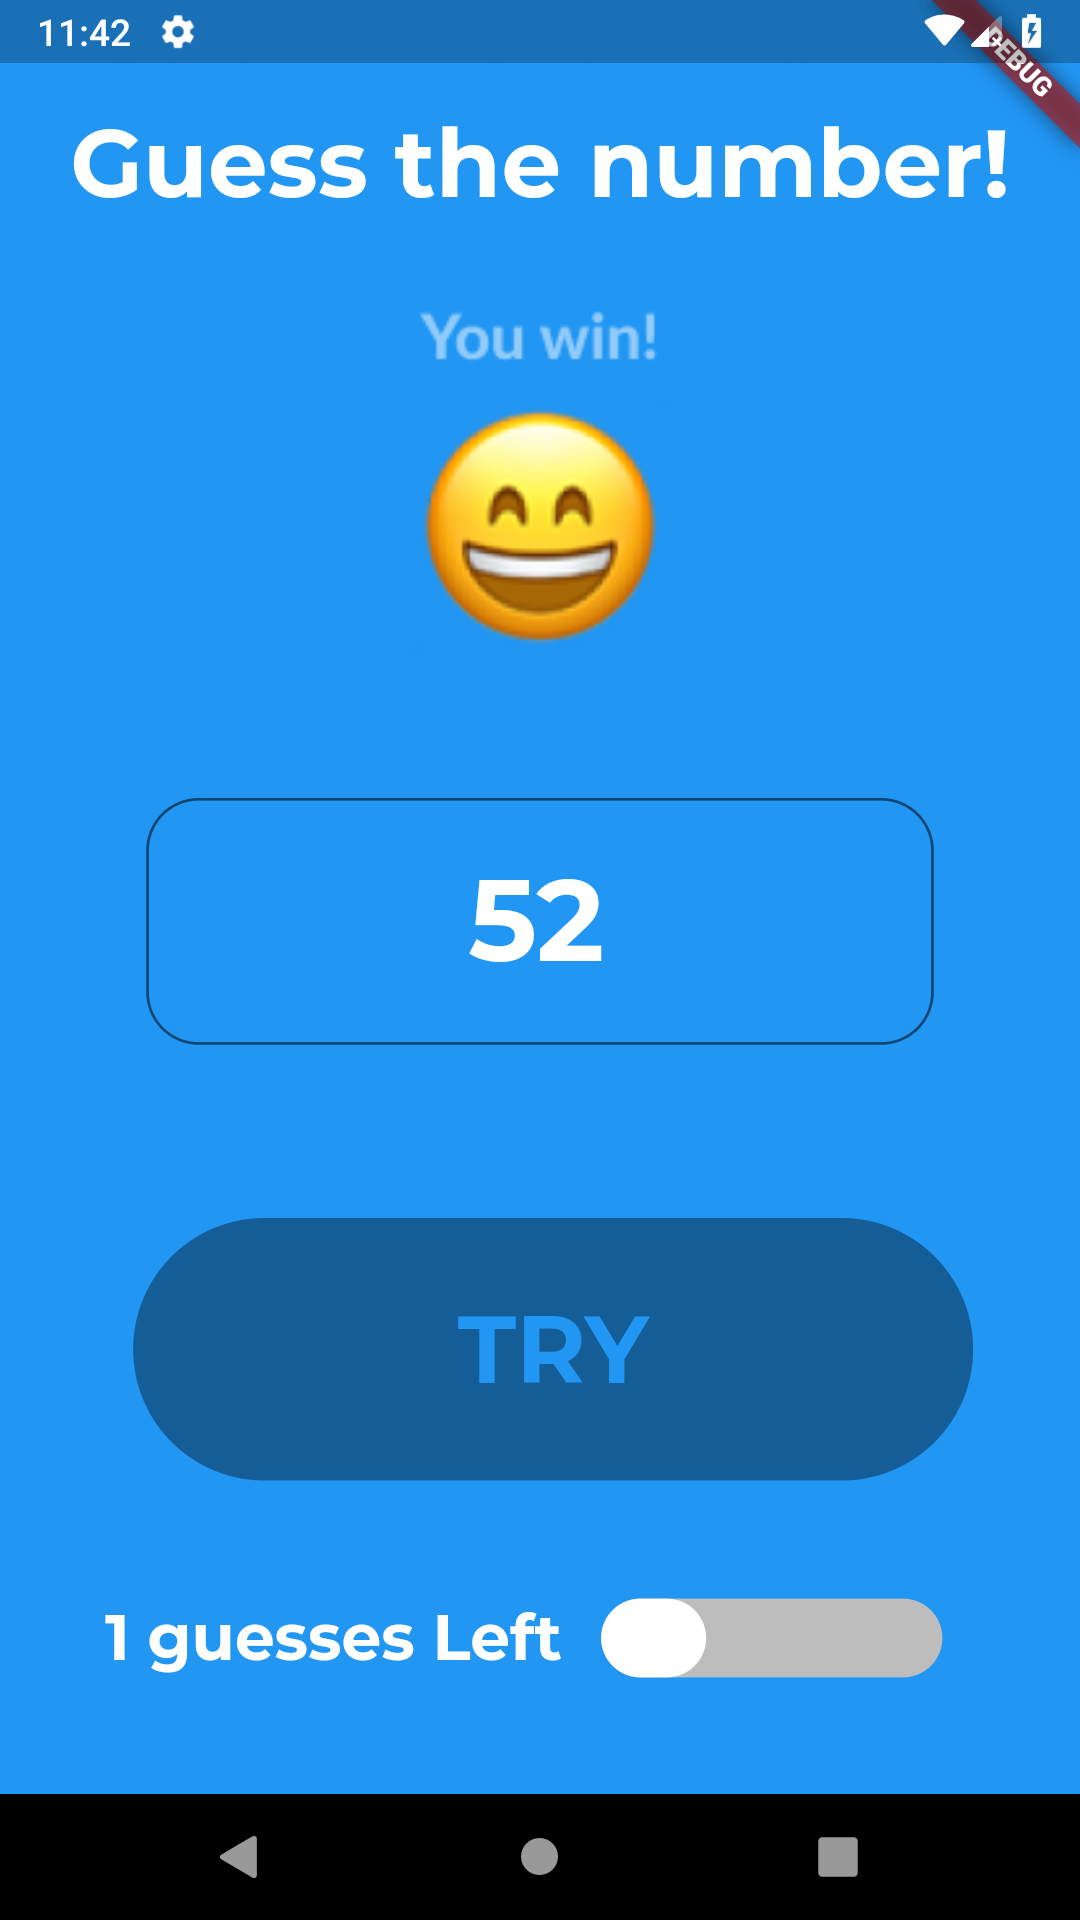
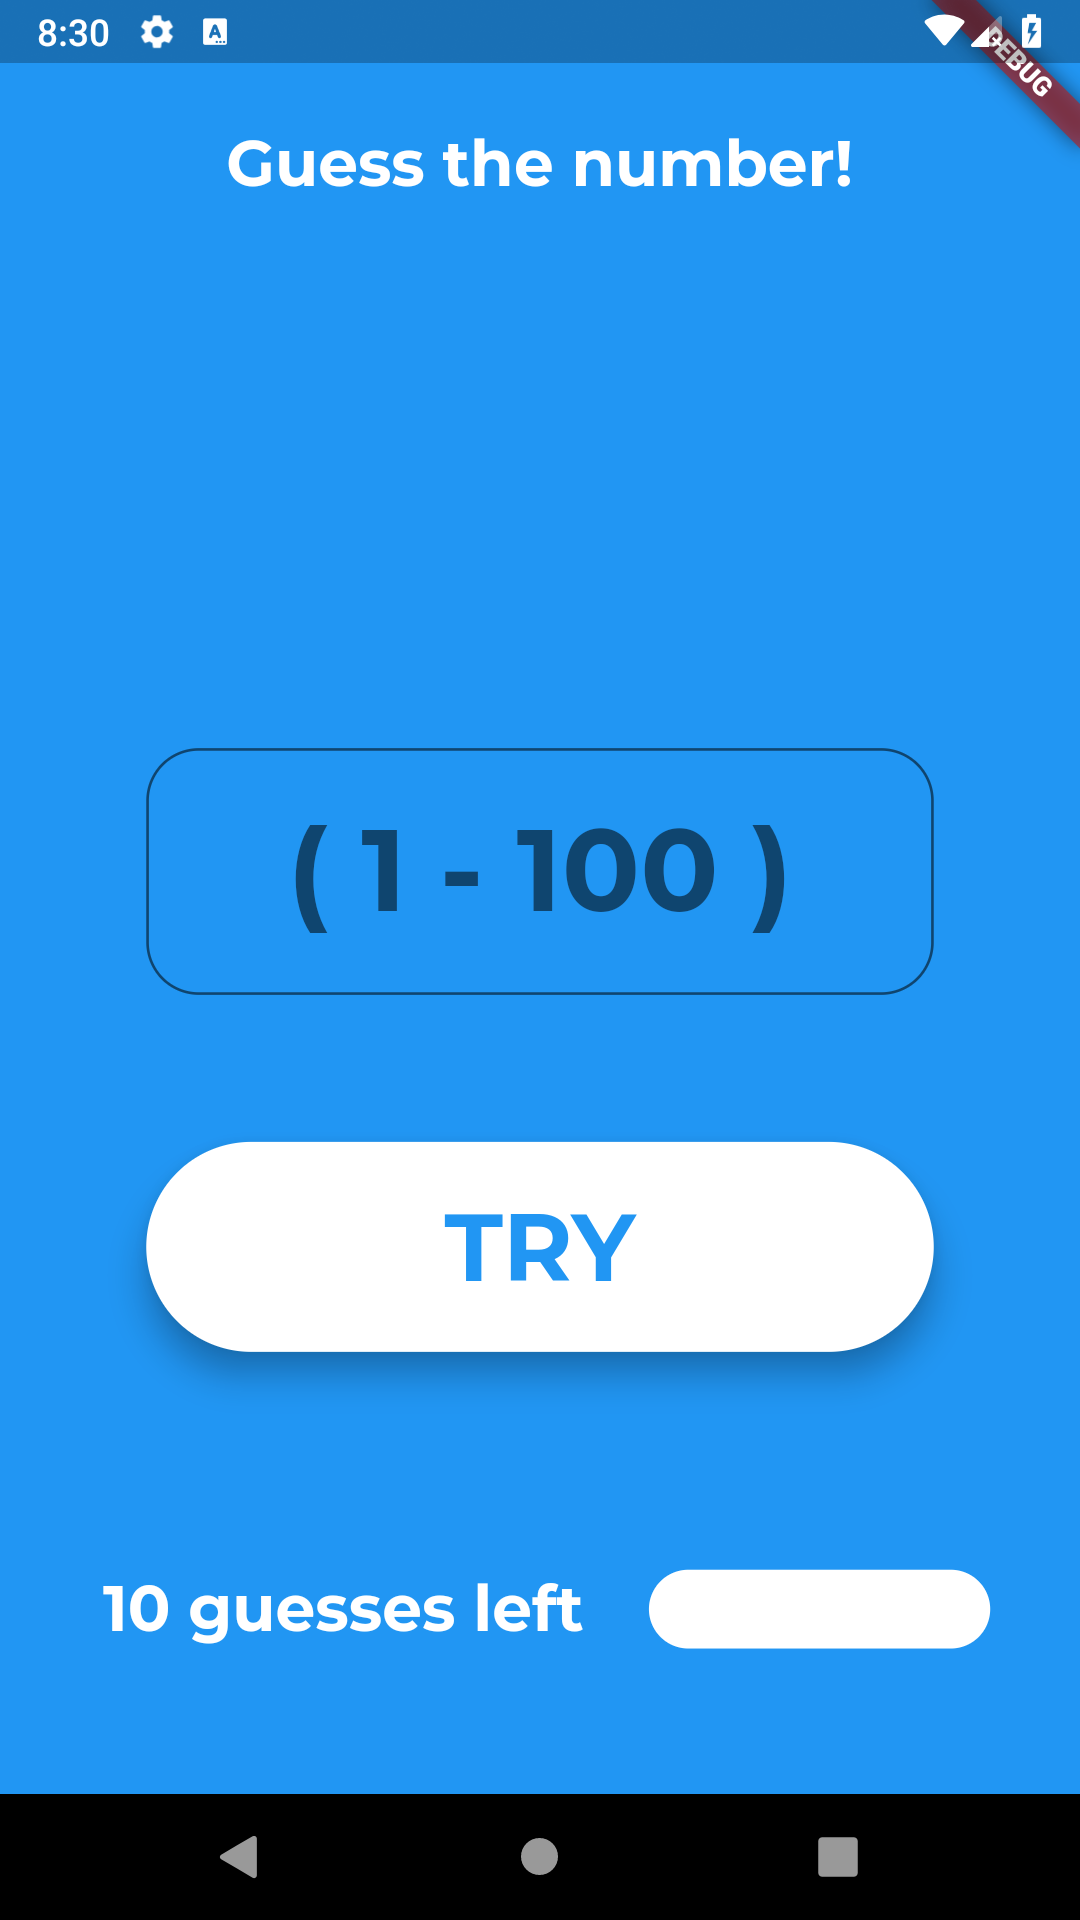
final

diff --git a/lib/welcome.dart b/lib/welcome.dart
@@ -11,7 +11,7 @@ class WelcomeState extends State<Welcome> {
   int u, f, l = 10;
   bool w = false, lo = false;
   double a = 1;
-  final int random = Random().nextInt(100);
+  int random = Random().nextInt(100);
 
   @override
   Widget build(BuildContext context) => _screen();
@@ -71,19 +71,20 @@ class WelcomeState extends State<Welcome> {
   }
 
   Widget _tryButton() {
+    bool _condition= w || lo;
     return Container(
       width: 300,
       height: 80,
       child: RaisedButton(
-        onPressed: w || lo ? null : _setNumber,
+        onPressed: _condition ? _reset : _setNumber,
         color: Colors.white,
         shape: RoundedRectangleBorder(
           borderRadius: BorderRadius.circular(300.0),
         ),
         elevation: 10,
         child: Text(
-          "TRY",
-          style: TextStyle(color: Colors.blue, fontSize: 36),
+          _condition ? "RETRY" : "TRY",
+          style: TextStyle(color: _condition ? Colors.green[900] : Colors.blue, fontSize: 36),
           textAlign: TextAlign.center,
         ),
       ),
@@ -152,5 +153,16 @@ class WelcomeState extends State<Welcome> {
         f = u;
       });
     }
+  }
+
+  void _reset() {
+    setState(() {
+      f = null;
+      w = false;
+      lo = false;
+      a = 1;
+      l = 10;
+      random = new Random().nextInt(100);
+    });
   }
 }

diff --git a/README.md b/README.md
@@ -4,9 +4,11 @@ This is a fun little number guessing name where the goal is to guess the number 
 
 ## Screenshots
 
-<img src="./assets/images/snap2.png" width="300" />
-<img src="./assets/images/snap.png" width="300" /> 
-<img src="./assets/images/snap1.png" width="300" />
+<img src="./assets/images/snap.png" width="300" />
+<img src="./assets/images/snap2.png" width="300" /> 
+<img src="./assets/images/snap3.png" width="300" />
+<img src="./assets/images/snap4.png" width="300" />
+
 
 
 
